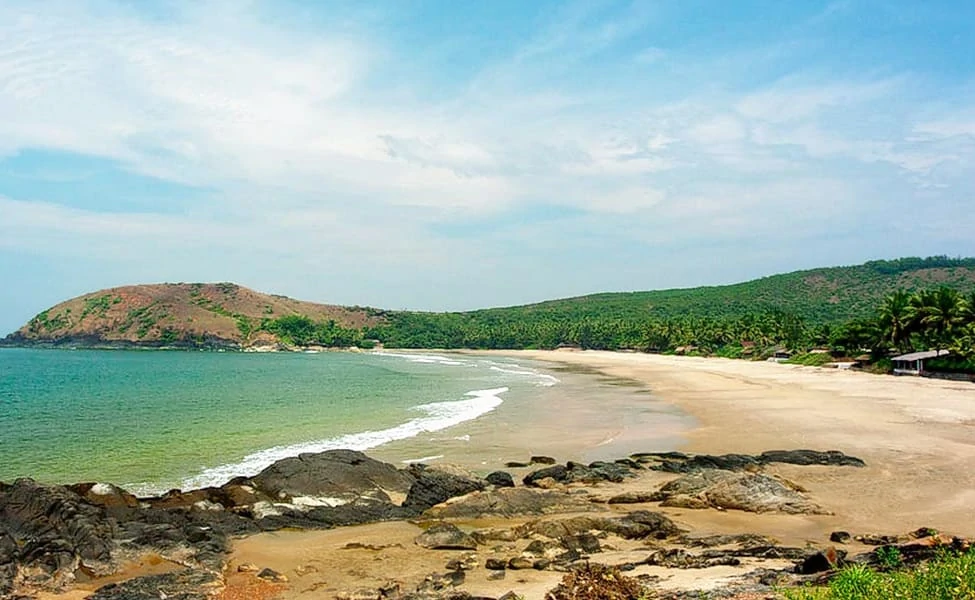
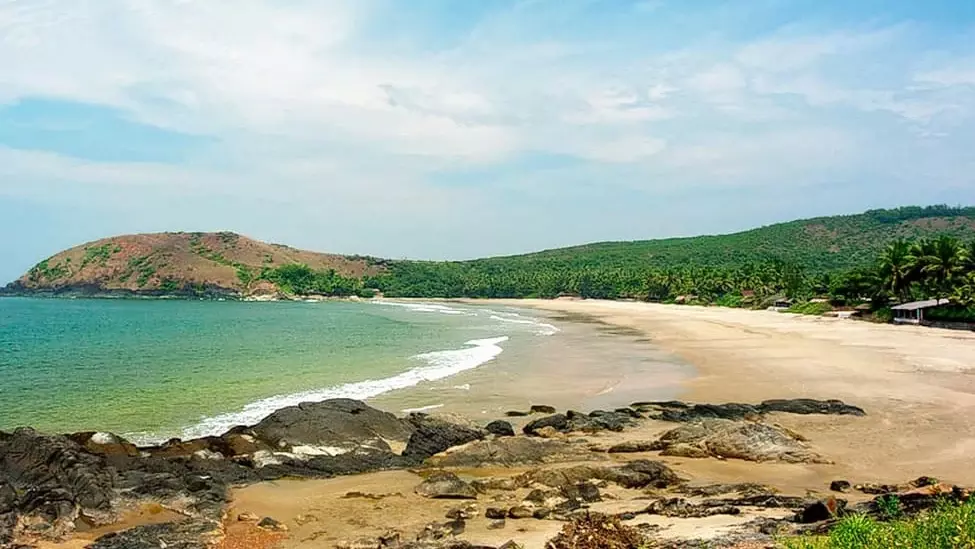
co-founder description improvements

diff --git a/src/views/index-sections/SectionTypography.js b/src/views/index-sections/SectionTypography.js
@@ -39,7 +39,7 @@ function SectionTypography() {
           <Container>
             <h2 className="title">Let's talk about us</h2>
             <h3 className="motto text-center">
-              Our motto is to provide  quality, hygiene and nature-friendly camping equipments
+              Our motto is to provide quality, hygiene and nature-friendly camping equipments
             </h3>
             <Row>
               <Col md="4">
@@ -47,25 +47,24 @@ function SectionTypography() {
                   <div className="card-avatar">
                     <img
                       alt="..."
-                      src={require("assets/img/faces/face_placeholder_3.webp")}
+                      src={require("assets/img/founders/arunraj-kodoth.webp")}
                     />
                   </div>
                   <CardBody>
                     <div className="author">
                       <CardTitle tag="h4">ArunRaj Kodoth</CardTitle>
                       <h6 className="card-category">Co-Founder</h6>
+                      <p style={{color: "white"}}>Order & Delivery management</p>
                     </div>
                     <p className="card-description text-center">
-                      Teamwork is so important that it is virtually impossible
-                      for you to reach the heights of your capabilities or make
-                      the money that you want without becoming very good at it.
+                      I am a computer science graduate and an environmentalist contributing to make this world a better place to live
                     </p>
                   </CardBody>
                   <CardFooter className="text-center">
                     <Button
                       className="btn-just-icon btn-neutral"
                       color="link"
-                      href="https://twitter.com/"
+                      href="https://twitter.com/arunraj_kodoth"
                       target="_blank"
                       rel="noopener noreferrer"
                     >
@@ -83,7 +82,7 @@ function SectionTypography() {
                     <Button
                       className="btn-just-icon btn-neutral ml-1"
                       color="link"
-                      href="https://www.linkedin.com/"
+                      href="https://www.linkedin.com/in/arunraj-kodoth-716a71153/"
                       target="_blank"
                       rel="noopener noreferrer"
                     >
@@ -97,26 +96,24 @@ function SectionTypography() {
                   <div className="card-avatar">
                     <img
                       alt="..."
-                      src={require("assets/img/faces/face_placeholder_2.webp")}
+                      src={require("assets/img/founders/moniesh-ram.webp")}
                     />
                   </div>
                   <CardBody>
                     <div className="author">
                       <CardTitle tag="h4">Moniesh Ram</CardTitle>
                       <h6 className="card-category">Co-Founder</h6>
+                      <p style={{color: "white"}}>Design & Marketing</p>
                     </div>
                     <p className="card-description text-center">
-                      A group becomes a team when each member is sure enough of
-                      himself and his contribution to praise the skill of the
-                      others. No one can whistle a symphony. It takes an
-                      orchestra to play it.
+                      I am an information science graduate and a film critic by hobby
                     </p>
                   </CardBody>
                   <CardFooter className="text-center">
                     <Button
                       className="btn-just-icon btn-neutral"
                       color="link"
-                      href="https://twitter.com/"
+                      href="https://twitter.com/moniesh_ram"
                       target="_blank"
                       rel="noopener noreferrer"
                     >
@@ -125,7 +122,7 @@ function SectionTypography() {
                     <Button
                       className="btn-just-icon btn-neutral ml-1"
                       color="link"
-                      href="https://www.instagram.com/"
+                      href="https://www.instagram.com/__abhay__/"
                       target="_blank"
                       rel="noopener noreferrer"
                     >
@@ -134,7 +131,7 @@ function SectionTypography() {
                     <Button
                       className="btn-just-icon btn-neutral ml-1"
                       color="link"
-                      href="https://www.linkedin.com/"
+                      href="https://www.linkedin.com/in/moniesh-ram/"
                       target="_blank"
                       rel="noopener noreferrer"
                     >
@@ -148,26 +145,24 @@ function SectionTypography() {
                   <div className="card-avatar">
                     <img
                       alt="..."
-                      src={require("assets/img/faces/face_placeholder_3.webp")}
+                      src={require("assets/img/founders/suresh-reddy.webp")}
                     />
                   </div>
                   <CardBody>
                     <div className="author">
                       <CardTitle tag="h4">Suresh Reddy</CardTitle>
                       <h6 className="card-category">Co-Founder</h6>
+                      <p style={{color: "white"}}>Technology</p>
                     </div>
                     <p className="card-description text-center">
-                      The strength of the team is each individual member. The
-                      strength of each member is the team. If you can laugh
-                      together, you can work together, silence isn’t golden,
-                      it’s deadly.
+                      I am an information science engineer, a techie who understands binary language to bridge machines and humans
                     </p>
                   </CardBody>
                   <CardFooter className="text-center">
                     <Button
                       className="btn-just-icon btn-neutral"
                       color="link"
-                      href="https://twitter.com/"
+                      href="https://twitter.com/Suresh_K_Reddy"
                       target="_blank"
                       rel="noopener noreferrer"
                     >
@@ -176,7 +171,7 @@ function SectionTypography() {
                     <Button
                       className="btn-just-icon btn-neutral ml-1"
                       color="link"
-                      href="https://www.instagram.com/"
+                      href="https://www.instagram.com/suresh.kumar.reddy/"
                       target="_blank"
                       rel="noopener noreferrer"
                     >
@@ -185,7 +180,7 @@ function SectionTypography() {
                     <Button
                       className="btn-just-icon btn-neutral ml-1"
                       color="link"
-                      href="https://www.linkedin.com/"
+                      href="https://www.linkedin.com/in/suresh-kumar-reddy/"
                       target="_blank"
                       rel="noopener noreferrer"
                     >

diff --git a/src/views/index-sections/ProductCatalog.js b/src/views/index-sections/ProductCatalog.js
@@ -32,7 +32,7 @@ function ProductCatalog() {
                 href="https://www.decathlon.in/p/8357355/tents/camping-tent-arpenaz-freshblack-3-person"
                 target="_blank"
               >
-               Quechua 3 person tent - &#8377; 250/-*
+               <h1 style={{fontSize: "12px", textTransform: "uppercase", fontWeight: "600", textAlign: "center", verticalAlign: "middle", margin: "0"}}>Quechua 3 person tent - &#8377; 250/day *</h1>
               </Button>
             </Col>
             <Col className="text-center" md="4">
@@ -48,7 +48,7 @@ function ProductCatalog() {
                 href="https://www.decathlon.in/p/8357354/tents/camping-tent-arpenaz-freshblack-2-person"
                 target="_blank"
               >
-               Quechua 2 person tent - &#8377; 200/-*
+               <h1 style={{fontSize: "12px", textTransform: "uppercase", fontWeight: "600", textAlign: "center", verticalAlign: "middle", margin: "0"}}>Quechua 2 person tent - &#8377; 200/day *</h1>
               </Button>
             </Col>
             <Col className="text-center" md="4">
@@ -64,7 +64,7 @@ function ProductCatalog() {
                 href="https://www.decathlon.in/p/8513489/sleeping-bag-and-mattress/camping-sleeping-bag-arpenaz-10c"
                 target="_blank"
               >
-               Quechua Sleeping bag - &#8377; 60/-*
+               <h1 style={{fontSize: "12px", textTransform: "uppercase", fontWeight: "600", textAlign: "center", verticalAlign: "middle", margin: "0"}}>Quechua Sleeping bag - &#8377; 60/day *</h1>
               </Button>
             </Col>
             <Col className="text-center" md="4">
@@ -80,7 +80,7 @@ function ProductCatalog() {
                 href="https://www.decathlon.in/p/8558891/sleeping-bag-and-mattress/camping-sleeping-bag-arpenaz-15"
                 target="_blank"
               >
-               Quechua Sleeping bag - &#8377; 50/-*
+               <h1 style={{fontSize: "12px", textTransform: "uppercase", fontWeight: "600", textAlign: "center", verticalAlign: "middle", margin: "0"}}>Quechua Sleeping bag - &#8377; 50/day *</h1>
               </Button>
             </Col>
             <Col className="text-center" md="4">
@@ -96,7 +96,7 @@ function ProductCatalog() {
                 href="https://www.decathlon.in/p/8055369/sleeping-bag-and-mattress/inflatable-camping-pillow-air-basic"
                 target="_blank"
               >
-               Quechua Air Pillow - &#8377; 15/-*
+               <h1 style={{fontSize: "12px", textTransform: "uppercase", fontWeight: "600", textAlign: "center", verticalAlign: "middle", margin: "0"}}>Quechua Air Pillow - &#8377; 15/day *</h1>
               </Button>
             </Col>
             <Col className="text-center" md="4">
@@ -112,7 +112,7 @@ function ProductCatalog() {
                 href="#"
                 target="_blank"
               >
-               Sleeping mattress - Coming soon
+               <h1 style={{fontSize: "12px", textTransform: "uppercase", fontWeight: "600", textAlign: "center", verticalAlign: "middle", margin: "0"}}>Sleeping mattress - Coming soon</h1>
               </Button>
             </Col>
           </Row>

diff --git a/src/views/index-sections/SectionExample1.js b/src/views/index-sections/SectionExample1.js
@@ -25,6 +25,25 @@ import { Button, Container, Row, Col } from "reactstrap";
 function SectionExample1() {
   return (
       <div className="section section-dark text-center">
+        <Container className="pt-5 pb-5">
+          <Row>
+            <Col className="ml-auto mr-auto text-center" md="8">
+              <div className="pb-3">
+              <h2 className="description" style={{fontSize: "15px", lineHeight: "1.5em", marginBottom: "5px"}}>
+                We rent clean & hyguine equipment including camping tents, sleeping bags, inflatable pillows, sleeping mattress etc., required for camping and trekking
+              </h2>
+              </div>
+              <Button
+                className="btn-outline-neutral btn-round"
+                color="default"
+                href="/products"
+                target="_blank"
+              >
+               Click here to view our products
+              </Button>
+            </Col>
+          </Row>
+        </Container>
         <Container>
           <Row>
             <Col className="ml-auto mr-auto text-center" md="8">
@@ -89,7 +108,7 @@ function SectionExample1() {
               <img
                 alt="..."
                 className="img-rounded img-responsive"
-                src={require("assets/img/examples/tadiandamol.webp")}
+                src={require("assets/img/examples/kaurava-kunda.webp")}
                 style={{ width: "100%" }}
               />
               <Button
@@ -102,6 +121,7 @@ function SectionExample1() {
               </Button>
             </Col>
           </Row>
+          
         </Container>
       </div>
   );

diff --git a/src/components/Navbars/IndexNavbar.js b/src/components/Navbars/IndexNavbar.js
@@ -132,7 +132,7 @@ function IndexNavbar() {
             <NavItem>
               <NavLink
                 data-placement="bottom"
-                href="https://www.instagram.com/onevasindia/"
+                href="https://www.instagram.com/onevas.in/"
                 target="_blank"
                 title="Follow us on Instagram"
                 rel="noopener noreferrer"
@@ -141,19 +141,6 @@ function IndexNavbar() {
                 <p className="d-lg-none">Instagram</p>
               </NavLink>
             </NavItem>
-            {/*!
-            <NavItem>
-              <NavLink
-                data-placement="bottom"
-                href="https://www.github.com/CreativeTimOfficial/paper-kit-react?ref=creativetim"
-                target="_blank"
-                title="Star on GitHub"
-              >
-                <i className="fa fa-github" />
-                <p className="d-lg-none">GitHub</p>
-              </NavLink>
-            </NavItem>
-            */}
             <NavItem>
               <NavLink
                 href="/#contact_us"

diff --git a/src/components/GoogleMap.js b/src/components/GoogleMap.js
@@ -10,8 +10,7 @@ class SimpleMap extends Component {
         <div className="mapWrapper">
         <iframe
             title="onevas"
-            src="https://www.google.com/maps/embed?pb=!1m14!1m8!1m3!1d15553.953469910588!2d77.7456741!3d12.9405714!3m2!1i1024!2i768!4f13.1!3m3!1m2!1s0x0%3A0xc3cc888d87b4a578!2sCALKIN!5e0!3m2!1sen!2sin!4v1605437872262!5m2!1sen!2sin"
-            
+            src="https://www.google.com/maps/embed?pb=!1m18!1m12!1m3!1d972.1231448251406!2d77.74535100543474!3d12.940301307932936!2m3!1f0!2f0!3f0!3m2!1i1024!2i768!4f13.1!3m3!1m2!1s0x3bae0d06d623d157%3A0x2a992864bfb0c99c!2sOnevas!5e0!3m2!1sen!2sin!4v1605518584351!5m2!1sen!2sin"
         />
         </div>
         

diff --git a/src/views/Index.js b/src/views/Index.js
@@ -32,7 +32,6 @@ import FloatingButton from "components/FloatingButton.js"
 //import SectionDark from "views/index-sections/SectionDark.js";
 import SectionTypography from "views/index-sections/SectionTypography.js";
 import SectionExample1 from "views/index-sections/SectionExample1.js";
-import SectionExample2 from "views/index-sections/SectionExample2.js";
 import SimpleMap from "components/GoogleMap.js"
 
 
@@ -53,7 +52,6 @@ function Index() {
       <div className="main">
         {/* <SectionCarousel /> */}
         <SectionExample1 />
-        <SectionExample2 />
       </div>
       <SectionTypography />
       <SimpleMap />

diff --git a/src/views/index-sections/ProductsCarousel.js b/src/views/index-sections/ProductsCarousel.js
@@ -6,13 +6,13 @@ const items = [
     src: require("assets/img/camping/product-carousel-1.webp"),
     altText: 'Camping Tents',
     header: 'Camping Tents',
-    caption: 'From \u20B9 200/- onwards*'
+    caption: 'Starting from \u20B9 200/day'
   },
   {
     src: require("assets/img/camping/product-carousel-2.webp"),
     altText: 'Sleeping Bags',
     header: 'Sleeping Bags',
-    caption: 'From \u20B9 50/- onwards*'
+    caption: 'Starting from \u20B9 50/day'
   },
   {
     src: require("assets/img/camping/product-carousel-3.webp"),

diff --git a/src/components/Footers/DemoFooter.js b/src/components/Footers/DemoFooter.js
@@ -40,8 +40,9 @@ function DemoFooter() {
           </nav>
           <div className="credits ml-auto">
             <span className="copyright">
-              © {new Date().getFullYear()}, made with{" "}
-              <i className="fa fa-heart heart" /> for Bengaluru
+              For the {" "}
+              <i className="fa fa-heart heart" />
+              of Karnataka, Please do not litter
             </span>
           </div>
         </Row>

diff --git a/src/components/Navbars/ProductNavbar.js b/src/components/Navbars/ProductNavbar.js
@@ -42,7 +42,7 @@ function ProductNavbar() {
             href="/"
             title="Onevas"
           >
-            <div style={{color: "black"}}>HOME</div>
+            <div style={{color: "black", textShadow: "1px 1px white"}}>HOME</div>
           </NavbarBrand>
         </div>
       </Container>

diff --git a/public/index.html b/public/index.html
@@ -57,7 +57,7 @@
       rel="stylesheet"
       async
     />
-    <title>Onevas</title>
+    <title>Onevas: Rent camping & trekking equipment</title>
   </head>
   <body class="sidebar-collapse">
     <noscript>You need to enable JavaScript to run this app.</noscript>

diff --git a/src/css/main.css b/src/css/main.css
@@ -12,6 +12,7 @@
  *  express or implied. See the License for the specific language governing
  *  permissions and limitations under the License.
  */
+
  .row {
     max-width: 96.875rem;
     margin-left: auto;

diff --git a/src/assets/css/paper-kit.css b/src/assets/css/paper-kit.css
@@ -6459,4 +6459,8 @@ td.rdtYear:hover {
   border-width: 0 .4rem .4rem .4rem;
   border-bottom-color: #fff; }
 
+.productHeading {
+  font-size: 50% !important;
+ }
+
 /*# sourceMappingURL=paper-kit.css.map */
